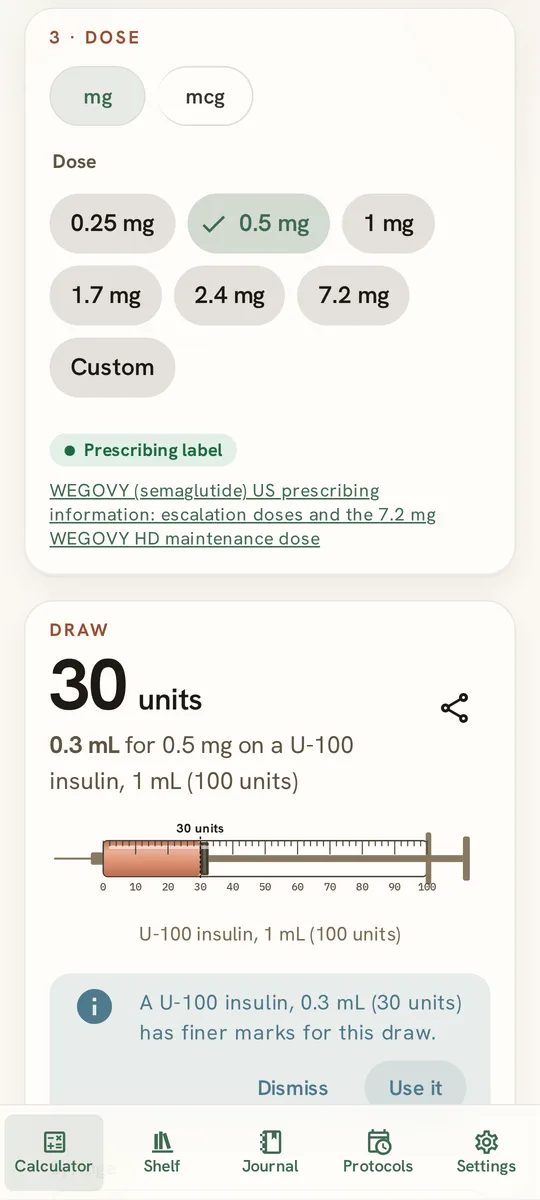
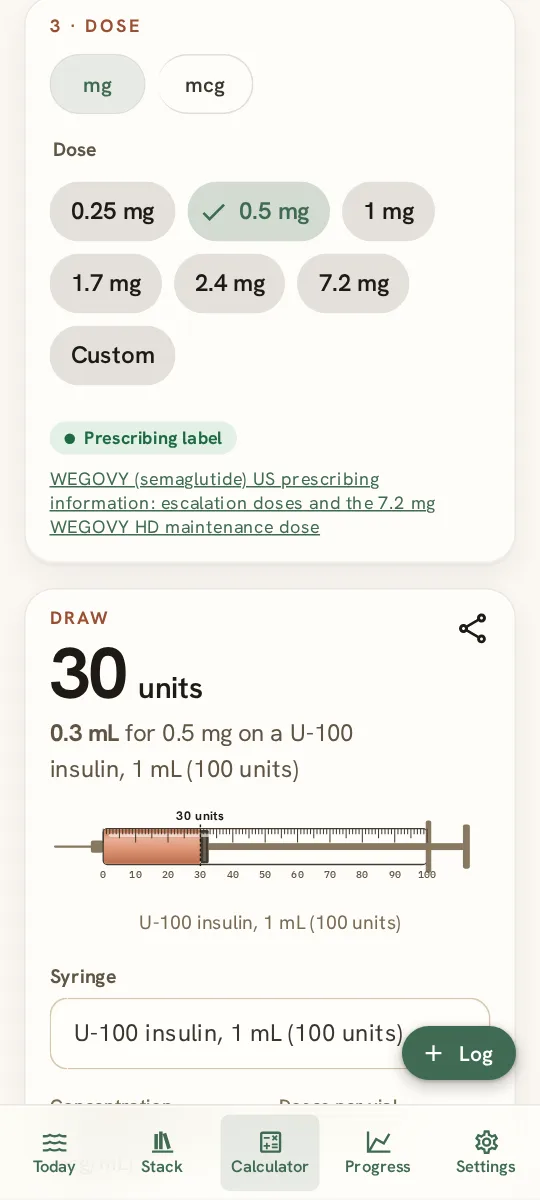
update with latest screenshots

diff --git a/site/index.html b/site/index.html
@@ -102,7 +102,7 @@
                 src="assets/screens/shelf.webp"
                 width="540"
                 height="1200"
-                alt="PepCalc's shelf: two mixed vials, BPC-157 and semaglutide, each with the amount and volume left"
+                alt="PepCalc's Stack tab: BPC-157 and GHK-Cu cards with remaining supply, vial age, and quick draw actions"
               />
             </picture>
             <picture class="phone">
@@ -118,7 +118,7 @@
                 src="assets/screens/levels.webp"
                 width="540"
                 height="1200"
-                alt="PepCalc's Protocols tab: a countdown ring to the next dose of BPC-157 and semaglutide, then an estimate of semaglutide in the body from logged draws"
+                alt="PepCalc's Today screen: Semaglutide countdown ring, due badge, estimated level and percent of peak over its level curve"
               />
             </picture>
           </div>
@@ -191,7 +191,7 @@
             </article>
             <article class="tile tile--2">
               <div>
-                <h3>Protocols</h3>
+                <h3>Today</h3>
                 <p>A countdown to every next dose. As many peptides as you like.</p>
               </div>
               <picture class="tile__shot">
@@ -200,13 +200,13 @@
                   width="540"
                   height="1200"
                   loading="lazy"
-                  alt="The Protocols tab: BPC-157 daily and semaglutide weekly, each with a countdown ring"
+                  alt="PepCalc's Today screen: BPC-157 and GHK-Cu due cards, each with a countdown ring"
                 />
               </picture>
             </article>
             <article class="tile tile--4">
               <div>
-                <h3>Shelf</h3>
+                <h3>Stack</h3>
                 <p>Your mixed vials, every draw, and what's left.</p>
               </div>
               <picture class="tile__shot">
@@ -215,7 +215,7 @@
                   width="540"
                   height="1200"
                   loading="lazy"
-                  alt="The shelf: two mixed vials, each with its age and the amount left"
+                  alt="Semaglutide vials on PepCalc: an active vial with remaining balance and a compact archived vial below"
                 />
               </picture>
             </article>
@@ -239,7 +239,7 @@
             </article>
             <article class="tile tile--2">
               <div>
-                <h3>Journal</h3>
+                <h3>Progress</h3>
                 <p>Weight, blood sugar, side effects, and private progress photos.</p>
               </div>
               <picture class="tile__shot">
@@ -248,7 +248,7 @@
                   width="540"
                   height="1200"
                   loading="lazy"
-                  alt="The Journal tab: weight, blood sugar, and side effects"
+                  alt="PepCalc's Progress tab in dark mode: weight trend chart with dose callouts"
                 />
               </picture>
             </article>
